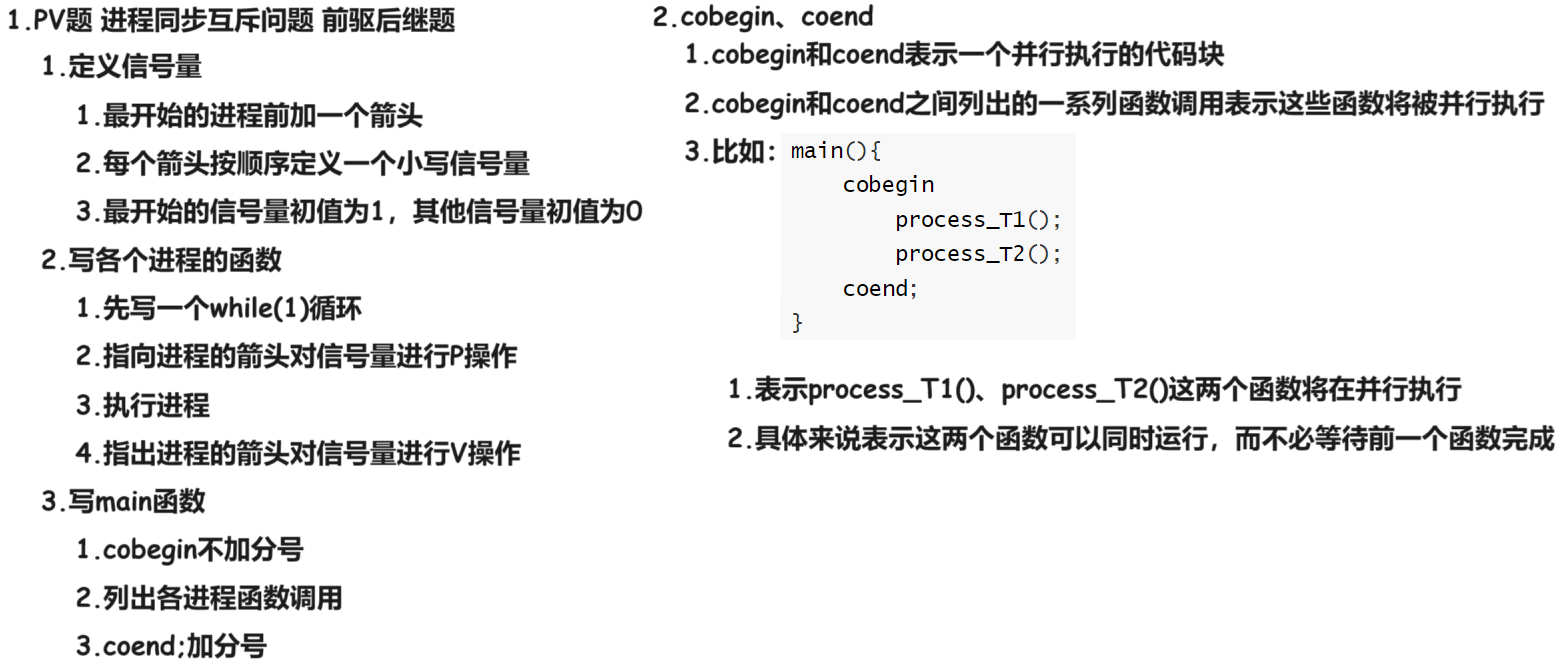
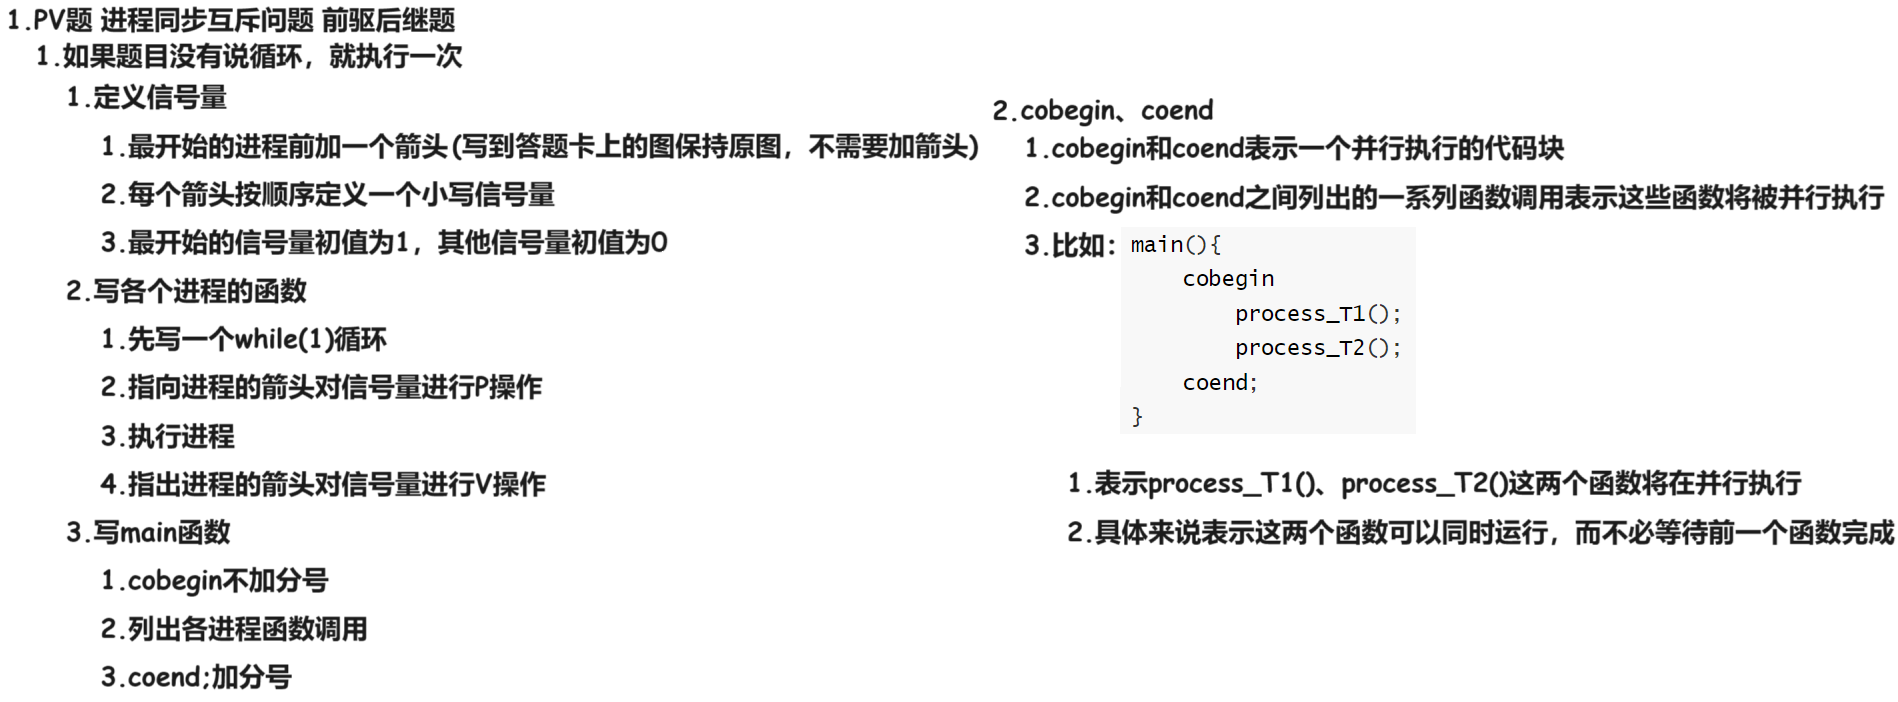
240105

Changed region(s): [[0.0, 0.0, 1.0, 0.7812], [0.4598, 0.4375, 1.0, 0.7812], [0.0307, 0.7812, 0.2452, 1.0]]

diff --git a/04 每日一题/01 820/05 23/01 操作系统部分/03 计算题/02 PV题 前驱后继题 基本同步问题 240105/01 Doc.md b/04 每日一题/01 820/05 23/01 操作系统部分/03 计算题/02 PV题 前驱后继题 基本同步问题 240105/01 Doc.md
@@ -1,6 +1,6 @@
 # 00 背诵
 
-
+<img src="https://cvp.oss-cn-shanghai.aliyuncs.com/picgo/202401051526841.png" alt="image-20240105152645657" style="zoom:50%;" />
 
 
 
@@ -12,9 +12,10 @@
 
 # 02 答案
 
-
+<img src="https://cvp.oss-cn-shanghai.aliyuncs.com/picgo/202401051527898.png" alt="image-20240105152705780" style="zoom:50%;" />
 
 
 
 # 02 视频解析
 
+<img src="https://cvp.oss-cn-shanghai.aliyuncs.com/picgo/202401051529487.png" alt="image-20240105152955058" style="zoom:50%;" />
